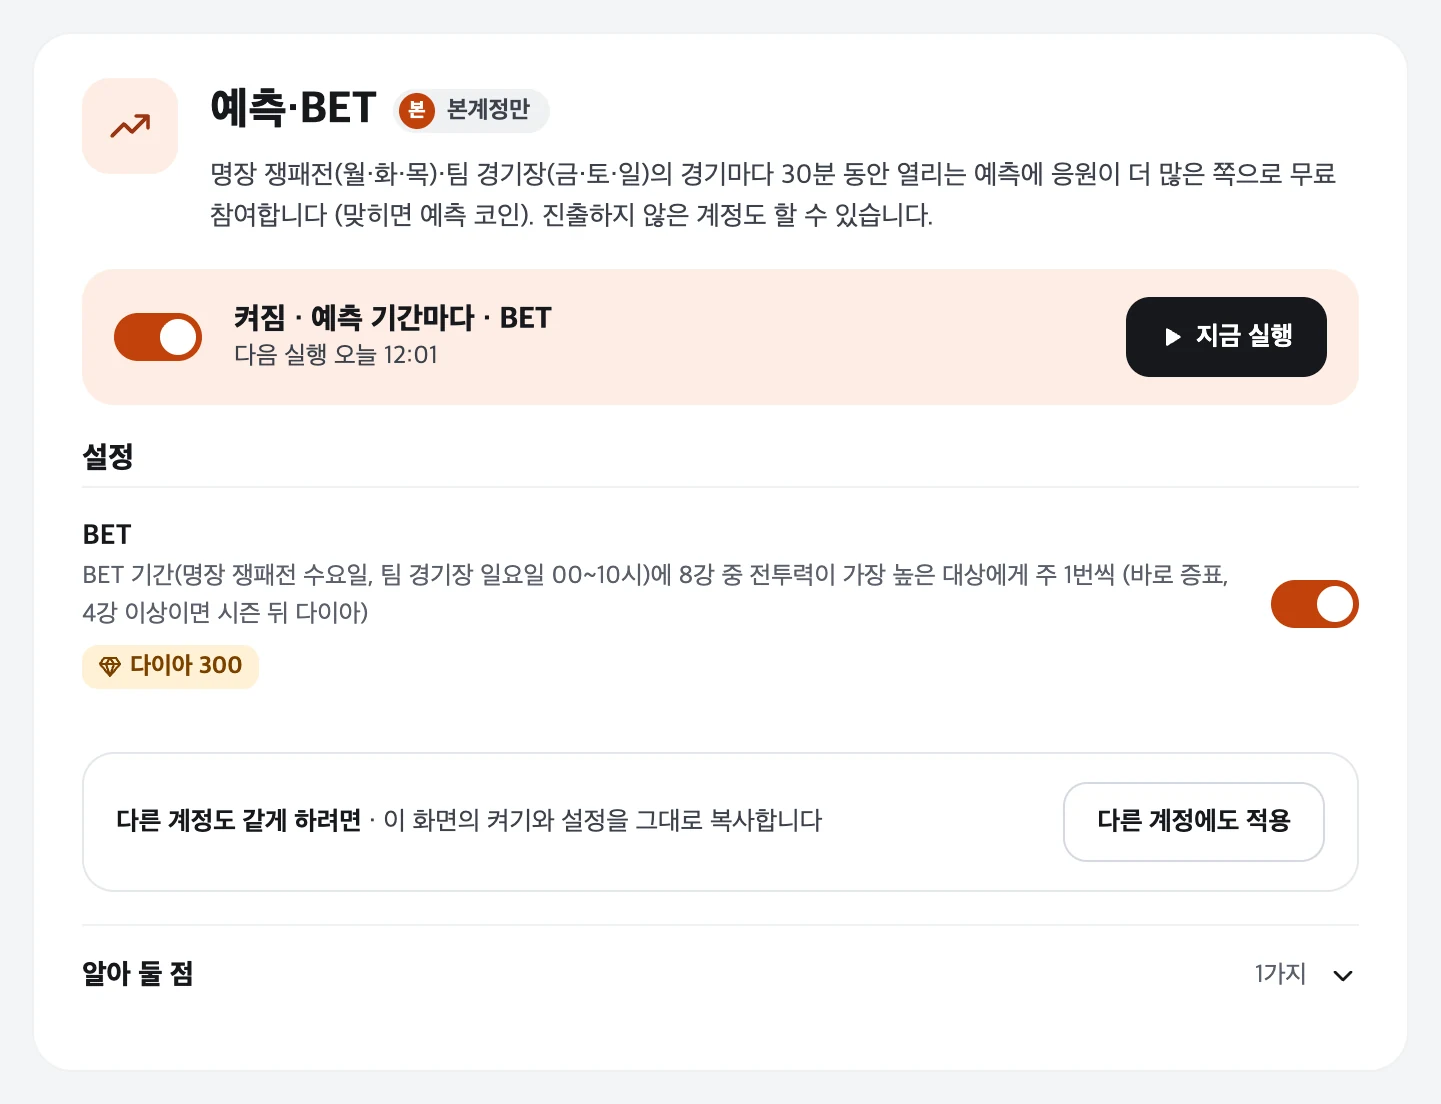
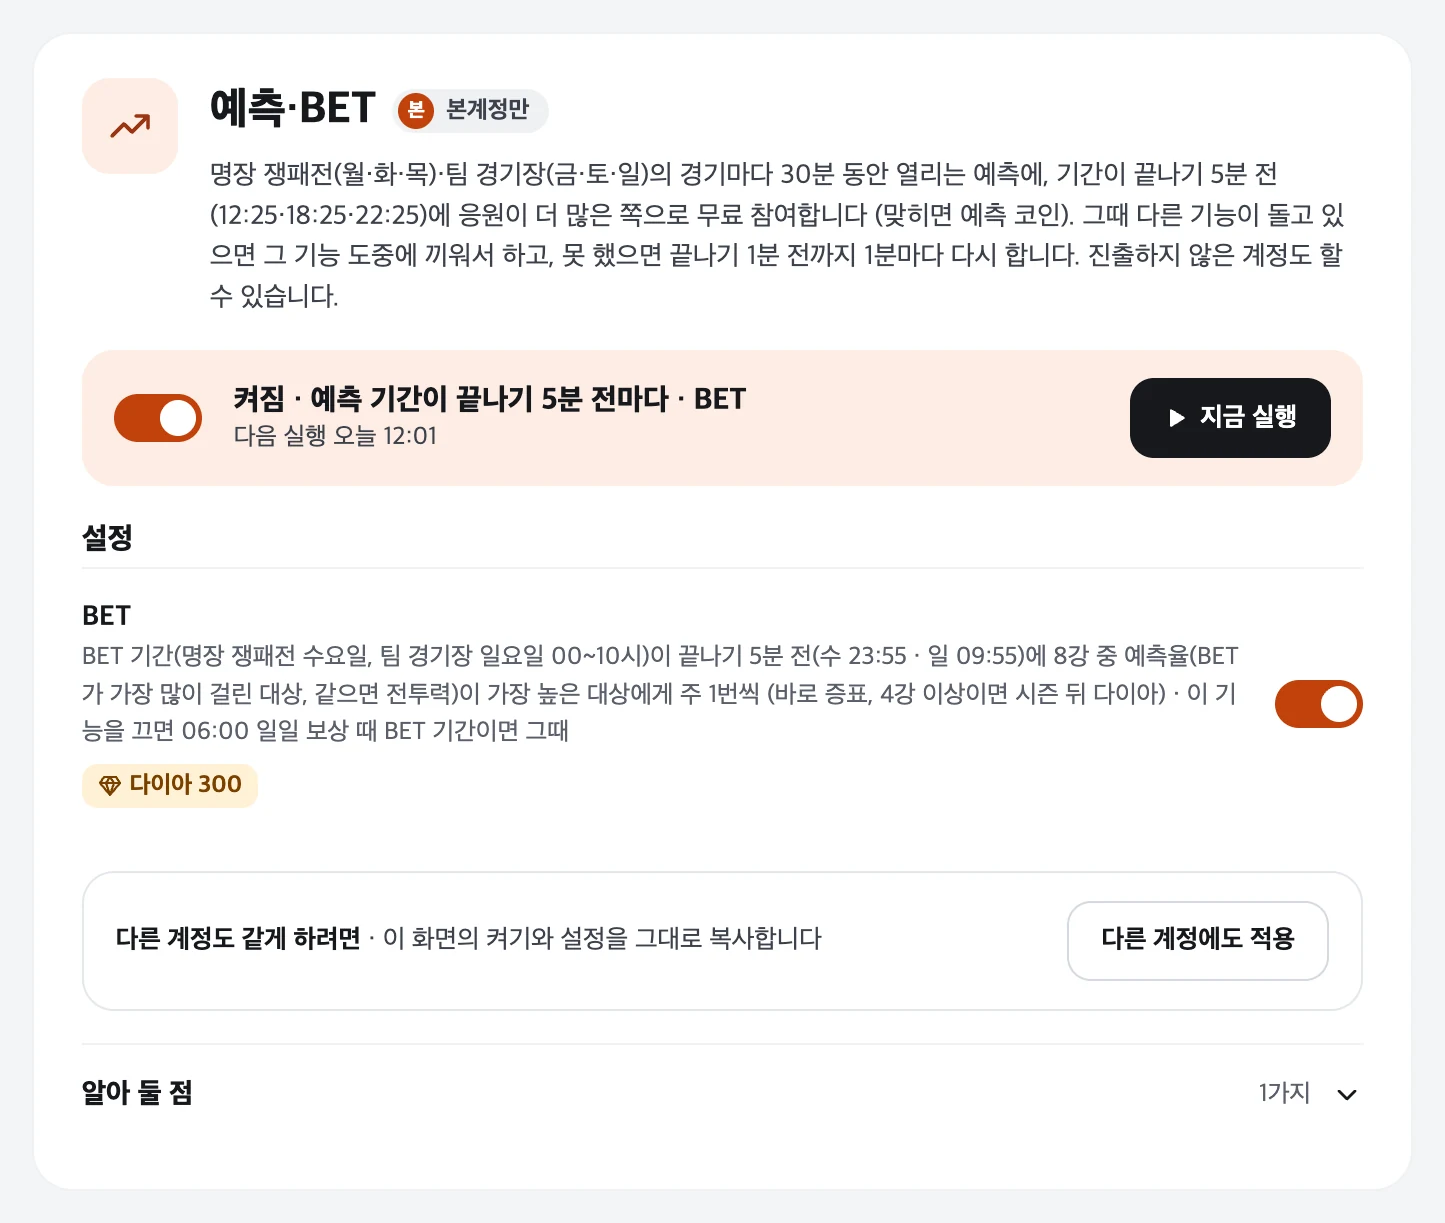
v1.5.138~144 홈페이지: 지혜 대결 퍼즐 대전·예측·BET·한정 보상·이벤트 켜는 곳 (README 06b0113와 같게)
- 지혜 대결 퍼즐 대전: 검희 카드 1장, 신청 거절 다시, 패스 보상 끝까지·목표·패스용 다이아, 최고 Pt 100, 랭크 Pt 목표·랭크 Pt용 다이아, 끝나기 15분 전, 다른 예약 판 사이, 마친 뒤 이어 하기(v1.5.144)
- 예측·BET: 끝나기 5분 전, BET는 예측율 1위
- 한정 보상: 훈계 진행도 보상, 리모컨은 Pt가 없어 쓰지 않음
- 연회 참가·각력 단련 참가권: 이벤트 메뉴 카드의 예약 기능, 끝난 이벤트는 지난 이벤트 탭
- 그림 panel-match3·panel-jingcai 다시 찍음

Claude-Session: https://claude.ai/code/session_01KmZacAeoiGxHpjKwWGpkTY

diff --git a/docs/features.html b/docs/features.html
@@ -125,9 +125,10 @@
         <div>
           <div class="feat-h"><i data-i="crown"></i><div><h3>한정 보상</h3><div class="when">켜면 확인 간격마다 (3시간)</div></div></div>
           <div class="tags"><span class="chip">기본은 무료 보상만</span><span class="chip dia">상점 품목은 고른 것만</span></div>
-          <p>게임 메인 화면의 「한정 보상」은 <b>추첨 목표 → 소환 대상 → 쇼핑</b>이 한 주씩 바뀝니다. 매일 무료 패키지와 목표 임무·유파 목표 보상(달성한 단계)을 받습니다.</p>
+          <p>게임 메인 화면의 「한정 보상」은 <b>추첨 목표 → 소환 대상 → 쇼핑</b>이 한 주씩 바뀝니다. 매일 무료 패키지와 목표 임무·유파 목표 보상(달성한 단계), 훈계 진행도 보상을 받습니다.</p>
           <ul>
-            <li><b>추첨 목표 주</b>: 목표 임무를 몇 회차까지(최대 4회차) 채울지 고르면, 고른 훈계 상자를 Pt가 낮은 것부터 써서 채웁니다. 달성한 단계 보상은 모두 받고, 보상으로 받은 훈계 상자도 바로 이어서 씁니다(v1.5.126부터, 예전에는 다음 확인 때).</li>
+            <li><b>추첨 목표 주</b>: 목표 임무를 몇 회차까지(최대 4회차) 채울지 고르면, 고른 훈계 상자(깃털 1Pt·양초 10Pt·집게 20Pt·채찍 50Pt)를 Pt가 낮은 것부터 써서 채웁니다. 달성한 단계 보상은 모두 받고, 보상으로 받은 훈계 상자도 바로 이어서 씁니다(v1.5.126부터, 예전에는 다음 확인 때). 리모컨은 Pt가 없어 쓰지 않습니다.</li>
+            <li><b>훈계 진행도 보상</b>: 추첨 화면 위쪽에서 상자를 열어 쌓인 Pt로 받는 양초·집게·채찍·리모컨(「일괄 수령」)도 받고, 나온 상자를 이어서 씁니다. 회차를 0으로 두었거나 다른 주여도 받기만 합니다(v1.5.140부터).</li>
             <li><b>소환 대상 주</b>: 고른 회차까지 초대장으로 100·10·1회 추첨해서 채웁니다. 단계 보상으로 받은 초대장도 바로 이어서 씁니다.</li>
             <li><b>쇼핑 주</b>: 무료 「광연 특전」(다이아 500)을 받고, 품목마다 살 개수와 <b>구매 순서</b>(▲▼)를 정합니다. 다이아가 모자라면 기다리거나 건너뛰고, <b>남길 다이아</b>를 정할 수 있습니다.</li>
             <li><b>쇼핑 주 마지막 날</b>: 남은 구매권을 비싼 상품부터 교환합니다.</li>
@@ -149,7 +150,7 @@
         <div class="mini" id="danxia"><div class="feat-h"><i data-i="bowl"></i><div><h3>자양 수프</h3><div class="when">8시간마다</div></div></div><p>자양 수프를 다시 씁니다(효과는 최대 8시간). 자양 특권 카드가 있는 계정은 쓰지 않습니다.</p><button class="see" type="button" data-zoom="img/panel-danxia.webp" data-alt="자양 수프 설정">설정 화면 보기 →</button></div>
         <div class="mini" id="mining"><div class="feat-h"><i data-i="pick"></i><div><h3>채굴</h3><div class="when">2~12시간마다 (기본 8시간)</div></div></div><p>곡옥의 [채굴]에서 최대 배속 자동 채굴(이동 우선)로 삽을 모두 씁니다. 광맥 특권이 없으면 같은 방식으로 한 칸씩 팝니다. 곡옥이 열리지 않은 계정은 건너뜁니다.</p><button class="see" type="button" data-zoom="img/panel-mining.webp" data-alt="채굴 설정">설정 화면 보기 →</button></div>
         <div class="mini" id="hbGet"><div class="feat-h"><i data-i="pouchIn"></i><div><h3>복주머니 받기 · 뿌리기</h3><div class="when">각각 1~12시간마다 (기본 3시간)</div></div></div><p>채팅 → 복주머니의 [공유 목록]에 있는 월드·유파 복주머니를 받고, 업적으로 생긴 내 복주머니를 뿌립니다(뿌린 사람도 한 몫).</p><button class="see" type="button" data-zoom="img/panel-hbGet.webp" data-alt="복주머니 받기 설정">설정 화면 보기 →</button></div>
-        <div class="mini" id="jingcai"><div class="feat-h"><i data-i="trend"></i><div><h3>예측 · BET</h3><div class="when">예측·BET 기간이 열릴 때마다</div></div></div><p>명장 쟁패전·팀 경기장 경기마다 응원이 더 많은 쪽으로 무료 예측. <b>BET</b>를 켜면 8강 중 전투력이 가장 높은 선수·팀에게 다이아 300으로 주 1번씩. 다른 기능이 돌고 있어도 그 사이에 끼워서 해 30분짜리 예측 기간을 놓치지 않습니다.</p><button class="see" type="button" data-zoom="img/panel-jingcai.webp" data-alt="예측·BET 설정">설정 화면 보기 →</button></div>
+        <div class="mini" id="jingcai"><div class="feat-h"><i data-i="trend"></i><div><h3>예측 · BET</h3><div class="when">예측·BET 기간이 끝나기 5분 전마다 (v1.5.140부터)</div></div></div><p>명장 쟁패전·팀 경기장 경기마다 30분 동안 열리는 예측에, 끝나기 5분 전(12:25·18:25·22:25)에 응원이 더 많은 쪽으로 무료 예측합니다(못 했으면 끝나기 1분 전까지 1분마다 다시). <b>BET</b>를 켜면 BET 기간이 끝나기 5분 전(수 23:55 · 일 09:55)에 8강 중 <b>예측율</b>(BET 화면의 「예측율」, 그 대상에게 걸린 BET가 가장 많은 쪽, 같으면 전투력)이 가장 높은 선수·팀에게 다이아 300으로 주 1번씩 겁니다(v1.5.140부터, 예전에는 기간이 열릴 때 전투력 1위). 다른 기능(카드 게임·지혜 대결 퍼즐·식신 파견·채굴 등)이 돌고 있으면 그 기능이 판·작업 사이(한 판 도중 포함)에 끼워서 합니다.</p><button class="see" type="button" data-zoom="img/panel-jingcai.webp" data-alt="예측·BET 설정">설정 화면 보기 →</button></div>
         <div class="mini" id="wzsj"><div class="feat-h"><i data-i="hammer"></i><div><h3>공방</h3><div class="when">4~8시간마다 (기본 8시간)</div></div></div><p>트루 쉐도우 공방의 상자를 열고 작업을 다시 시작합니다. 공방 작업은 8시간 뒤 멈추는데, 8시간이 되기 전에 다시 시작해도 만들던 상자는 이어서 만들어집니다. 그래서 <b>다시 시작하는 간격</b>을 짧게 고르면 예약이 늦어져도 공방이 쉬는 틈이 없습니다(v1.5.126부터).</p><button class="see" type="button" data-zoom="img/panel-wzsj.webp" data-alt="공방 설정">설정 화면 보기 →</button></div>
         <div class="mini" id="ghz"><div class="feat-h"><i data-i="flag"></i><div><h3>유파 예선 신청</h3><div class="when">수·목·금 08:05</div></div></div><p>유파 예선에 개인 참가 신청을 합니다(수~금 8:00~19:30에만 신청 가능). 유파가 그 주에 참가하지 않았으면 건너뜁니다.</p><button class="see" type="button" data-zoom="img/panel-ghz.webp" data-alt="유파 예선 신청 설정">설정 화면 보기 →</button></div>
       </div>
@@ -185,8 +186,8 @@
       </article>
 
       <div class="mini-grid" style="margin-bottom:8px">
-        <div class="mini" id="feast"><div class="feat-h"><i data-i="cup"></i><div><h3>연회 참가</h3><div class="when">켰을 때 · 하루 1~10회 (기본 끔)</div></div></div><p>이벤트 연회에 손님으로 참가해 다이아·교환 코인을 받고, 참가한 연회가 끝나는 대로 다음 연회에 들어갑니다. 기다리는 동안 채팅의 협상 협력 요청도 돕습니다.</p><p>연회가 열리는 이벤트(할로윈 카니발 등)의 카드에서 켭니다. 그 이벤트가 끝났으면 「지난 이벤트」 탭에 있습니다(v1.5.137 전에는 주기 예약).</p><button class="see" type="button" data-zoom="img/panel-feast.webp" data-alt="연회 참가 설정">설정 화면 보기 →</button></div>
-        <div class="mini" id="kanjia-all" data-s data-st="각력 단련 참가권 모두 사용" data-k="각력단련 각력 참가권 특별훈련 입장권 모두사용"><div class="feat-h"><i data-i="flag"></i><div><h3>각력 단련 참가권 모두 사용</h3><div class="when">켰을 때 · 일일 보상 맨 끝 (기본 끔)</div></div></div><p>각력 단련 하루 5회(임무 분량)는 일일 보상이 늘 합니다. 이 칸을 켜면 그 뒤 남은 특별 훈련 입장권을 일일 보상 맨 끝에 모두 써서 참가합니다. 한 판에 4~5분이라 장수만큼 오래 걸립니다.</p><p>각력 단련 카드에서 켭니다(v1.5.137 전에는 기능 설정 → 일일 보상).</p></div>
+        <div class="mini" id="feast"><div class="feat-h"><i data-i="cup"></i><div><h3>연회 참가</h3><div class="when">켰을 때 · 하루 1~10회 (기본 끔)</div></div></div><p>이벤트 연회에 손님으로 참가해 다이아·교환 코인을 받고, 참가한 연회가 끝나는 대로 다음 연회에 들어갑니다. 기다리는 동안 채팅의 협상 협력 요청도 돕습니다.</p><p>이벤트 메뉴 → 할로윈 카니발 카드의 예약 기능에서 켜고 끄고, <kbd>자세한 설정</kbd>에서 횟수를 고릅니다. 그 이벤트가 끝나 있으면 「지난 이벤트」 탭의 쉬는 카드에 있습니다(v1.5.137 전에는 기능 설정의 주기 예약).</p><button class="see" type="button" data-zoom="img/panel-feast.webp" data-alt="연회 참가 설정">설정 화면 보기 →</button></div>
+        <div class="mini" id="kanjia-all" data-s data-st="각력 단련 참가권 모두 사용" data-k="각력단련 각력 참가권 특별훈련 입장권 모두사용"><div class="feat-h"><i data-i="flag"></i><div><h3>각력 단련 참가권 모두 사용</h3><div class="when">켰을 때 · 일일 보상 맨 끝 (기본 끔)</div></div></div><p>각력 단련 하루 5회(임무 분량)는 일일 보상이 늘 합니다. 이 칸을 켜면 그 뒤 남은 특별 훈련 입장권을 일일 보상 맨 끝에 모두 써서 참가합니다. 한 판에 4~5분이라 장수만큼 오래 걸립니다.</p><p>이벤트 메뉴 → 각력 단련 카드의 예약 기능에서 켜고 끕니다. 이벤트가 끝나 있으면 「지난 이벤트」 탭의 쉬는 카드에 있습니다(v1.5.137 전에는 기능 설정 → 일일 보상).</p></div>
       </div>
 
       <article class="feat" id="jjdms">
@@ -223,14 +224,23 @@
         <div>
           <div class="feat-h"><i data-i="puzzle"></i><div><h3>지혜 대결 퍼즐 대전</h3><div class="when">이벤트 기간(11/11~11/14) 매일 고른 시각 (기본 15:10, 기본 켬) · 이벤트 메뉴 → 지혜 대결 퍼즐 카드</div></div></div>
           <div class="tags"><span class="chip warn">테스트</span><span class="chip ok">일반 등급부터</span><span class="chip dia">도전권 1장 10다이아</span></div>
-          <div class="callout warn"><span data-i="alert"></span><div><b>기본으로 켜져 있습니다(v1.5.120부터).</b> 하루 최대 20판이고 도전권이 모자라면 다이아로 사므로 <b>다이아를 하루 최대 200까지</b> 씁니다. 원치 않으면 이벤트 메뉴 → 지혜 대결 퍼즐 카드의 「지혜 대결 퍼즐 대전」 스위치로 끄거나, 「도전권이 모자라면 다이아로 사기」를 끄세요(가진 도전권만큼만). v1.5.119에서 건드리지 않은 설정(꺼짐·10판)은 업데이트 때 켜짐·20판으로 바뀝니다.</div></div>
-          <p>이벤트 「지혜 대결 퍼즐」의 <b>랭크 대전</b>을 합니다. 7×7 판에서 이웃한 두 보석을 바꿔 같은 색 3개 이상을 지우는 대전으로, 실제 플레이어와 매칭됩니다(처음 5판과 연패 뒤에는 AI 상대). 먼저 무료 패키지·끝난 임무·패스 보상을 받고, 하루 승리 목표만큼 이길 때까지 대전한 뒤 임무·랭크 Pt·패스 보상을 받습니다. 무료 보상은 이 기능을 켜지 않아도 일일 보상이 받습니다.</p>
+          <div class="callout warn"><span data-i="alert"></span><div><b>기본으로 켜져 있습니다(v1.5.120부터).</b> 하루 최대 20판이고 도전권이 모자라면 다이아로 사므로 <b>다이아를 하루 최대 200까지</b> 씁니다(패스용·랭크 Pt용 다이아는 기본 꺼짐). 원치 않으면 이벤트 메뉴 → 지혜 대결 퍼즐 카드의 「지혜 대결 퍼즐 대전」 스위치로 끄거나, 「도전권이 모자라면 다이아로 사기」를 끄세요(가진 도전권만큼만). v1.5.119에서 건드리지 않은 설정(꺼짐·10판)은 업데이트 때 켜짐·20판으로 바뀝니다.</div></div>
+          <p>이벤트 「지혜 대결 퍼즐」의 <b>랭크 대전</b>을 합니다. 7×7 판에서 이웃한 두 보석을 바꿔 같은 색 3개 이상을 지우는 대전으로, 실제 플레이어와 매칭됩니다(처음 5판과 연패 뒤에는 AI 상대). 먼저 무료 패키지·끝난 임무·패스 보상을 받고, 하루 승리 목표만큼 이길 때까지 대전한 뒤(패스·랭크 Pt 목표가 남았으면 그만큼 더) 임무·랭크 Pt·패스 보상을 받습니다. 무료 보상은 이 기능을 켜지 않아도 일일 보상이 받습니다.</p>
           <ul>
             <li><b>하루 승리 목표</b>(기본 5번): 그날 이긴 판(직접 한 것 포함)이 이 수가 될 때까지 대전합니다. 5번 이상이면 임무 「매일 대전에 N회 참가」(5판)도 채워집니다.</li>
             <li><b>하루 최대 대전 횟수</b>(기본 20판): 목표만큼 이기지 못해도 그날 한 판이 이 수가 되면 멈춥니다.</li>
+            <li><b>검희 카드</b>: 한 판에 검희 카드 1장(무료 패키지·임무·무료 패스로 받음)이 듭니다. 카드가 떨어지면 다이아로도 더 할 수 없어 멈춥니다(v1.5.143부터는 카드가 없으면 도전권도 사지 않음).</li>
             <li><b>도전권이 모자라면 다이아로 사기</b>(기본 켬): 한 판에 지혜 대결 도전권 1장이 들고, 모자란 만큼만 1장씩 10다이아로 삽니다(기본 설정이면 하루 최대 200다이아). 끄면 가진 도전권만큼만 합니다.</li>
             <li>내 차례마다 판을 읽어 가장 많이 지우는 두 보석을 바꿉니다(특수 보석을 터뜨리거나 만드는 수를 더 높게 봄). <b>영부</b>(검희 스킬)가 차면 수를 두기 전에 쓰고, 공용 스킬(새로 고침·망치)은 쓰지 않습니다.</li>
-            <li>지면 랭크 Pt가 줄어듭니다(이기면 +30, 지면 -15, 0 아래로는 안 내려감). 랭크 Pt 보상은 이겨야 받습니다. 매칭이 2분 안에 안 잡히면 취소하고 두 번까지 다시 합니다.</li>
+            <li>지면 랭크 Pt가 줄어듭니다(이기면 +30, 지면 -15, 0 아래로는 안 내려감). 랭크 Pt 보상은 이겨야 받고, 최고 Pt로 받습니다. 매칭이 2분 안에 안 잡히면 취소하고 두 번까지 다시 합니다. 카드가 있는데 대전 신청이 거절되면 5초 뒤 네 번까지 다시 신청하고, 그래도 안 되면 1분 뒤 다시 시작합니다(v1.5.143부터).</li>
+            <li><b>패스 보상 끝까지</b>(기본 켬, v1.5.139부터): 대전 한 판(이기든 지든)에 패스Pt 10(패스 아이템 10개)이 들어옵니다. 패스 아이템을 먼저 사용하고 <b>목표</b>(기본 패스 마지막 단계 = 패스Pt 280, 고르면 위쪽 패스Pt 보상 끝 = 1000)까지 남은 판을 세어, 승리 목표를 채운 뒤에도 그만큼 더 대전합니다(하루 최대 대전 횟수를 넘어도 됨). 이벤트가 끝나기 24시간 안이면 남은 판을 모두, 아니면 첫날부터 남은 날에 나눠 그날 몫(그날 처음 패스Pt에서 남은 만큼 ÷ 남은 날)까지 합니다(v1.5.142부터). 판마다 패스 아이템을 바로 사용하고 닿은 단계·위쪽 보상·반복 보상을 받습니다.</li>
+            <li><b>패스용 도전권을 다이아로 사기</b>(기본 끔): 켜면 패스 때문에 하는 판의 도전권이 모자랄 때 1장에 다이아 10으로 삽니다(패스Pt 280까지 하루에 다 하면 많아야 다이아 280, 1000까지면 800 남짓). 끄면 가진 도전권까지만 합니다.</li>
+            <li>승리 목표를 채웠어도 <b>최고 랭크 Pt가 첫 보상(100)에 못 미치면</b> 하루 최대 대전 횟수까지 더 합니다(v1.5.140부터).</li>
+            <li><b>랭크 Pt 목표</b>(기본 정하지 않음, v1.5.142부터): 최고 랭크 Pt를 고른 보상(100~3,000)까지 채웁니다. 패스처럼 이벤트 첫날부터 남은 날에 나눠 그날 몫씩 하고, 마지막 날은 남은 것을 모두 합니다. 가진 도전권을 먼저 쓰고, 모자라면 아래 랭크 Pt용 다이아 한도까지 삽니다.</li>
+            <li><b>랭크 Pt용 다이아</b>(기본 안 함, v1.5.140부터): 다이아 100~3,000을 고르면 랭크 Pt 보상(최고 Pt 100~3,000, 게임 코인)을 위해 가진 도전권을 모두 쓰고, 그날 그 다이아까지 도전권을 사서 대전을 더 합니다(도전권 1장 = 다이아 10). 최고 Pt가 랭크 Pt 목표(정하지 않았으면 마지막 보상 3,000)에 닿으면 멈춥니다. 시작할 때 쓸 수 있는 다이아·장수를 로그에 남깁니다.</li>
+            <li>이벤트가 끝나기 15분 전부터는 새 판을 시작하지 않습니다(끝난 뒤에는 보상을 받을 수 없음).</li>
+            <li><b>다른 예약을 막지 않음</b>(v1.5.141부터): 판이 많아 오래 걸려도 <b>판이 끝날 때마다</b> 그 계정의 다른 예약(농장·공방·오중탑·한정 보상 등) 차례가 됐는지 보고, 됐으면 그 판까지만 하고 그 예약을 먼저 한 뒤 바로 이어서 대전합니다(판 중간에는 끊지 않음). 랭크 Pt용 다이아는 이어 하는 실행끼리 합쳐 하루 상한으로 셉니다.</li>
+            <li><b>오늘 대전을 이미 마쳤어도</b> 새 버전으로 업데이트된 뒤나 이 설정을 바꾸고 5분 뒤에 남은 판(패스 끝까지·최고 Pt 100·랭크 Pt용 다이아)을 이어서 합니다(v1.5.140부터, 남은 판이 없으면 바로 끝남). 설정은 할 판이 늘어나게 바꿨을 때(승리 목표·하루 최대 판 수·랭크 Pt 목표·랭크 Pt용 다이아를 올림, 다이아 사기·패스·패스 다이아를 켬)만 다시 보고, 줄이거나 끈 변경으로는 다시 돌지 않습니다(v1.5.144부터).</li>
             <li>경기(유파 쟁탈전 등) 시간이 되면 멈췄다가 경기 뒤 이어서 합니다. 그 시각에 앱·컴퓨터가 꺼져 있었으면 그날 자정 전까지 켜지는 대로 시작합니다.</li>
           </ul>
           <div class="set"><b>켜는 곳 (v1.5.137부터)</b>이벤트 메뉴 → 지혜 대결 퍼즐 카드의 예약 기능 줄에서 켜고 끕니다(전에는 기능 설정 → 지혜 대결 퍼즐 대전). <kbd>자세한 설정</kbd>을 누르면 이 설정 화면이 열리고, 맨 위 「‹ 이벤트 메뉴로」로 돌아옵니다. [지금 실행]은 그 설정 화면에 있습니다. 설정값은 옮기기 전 그대로입니다.</div>
